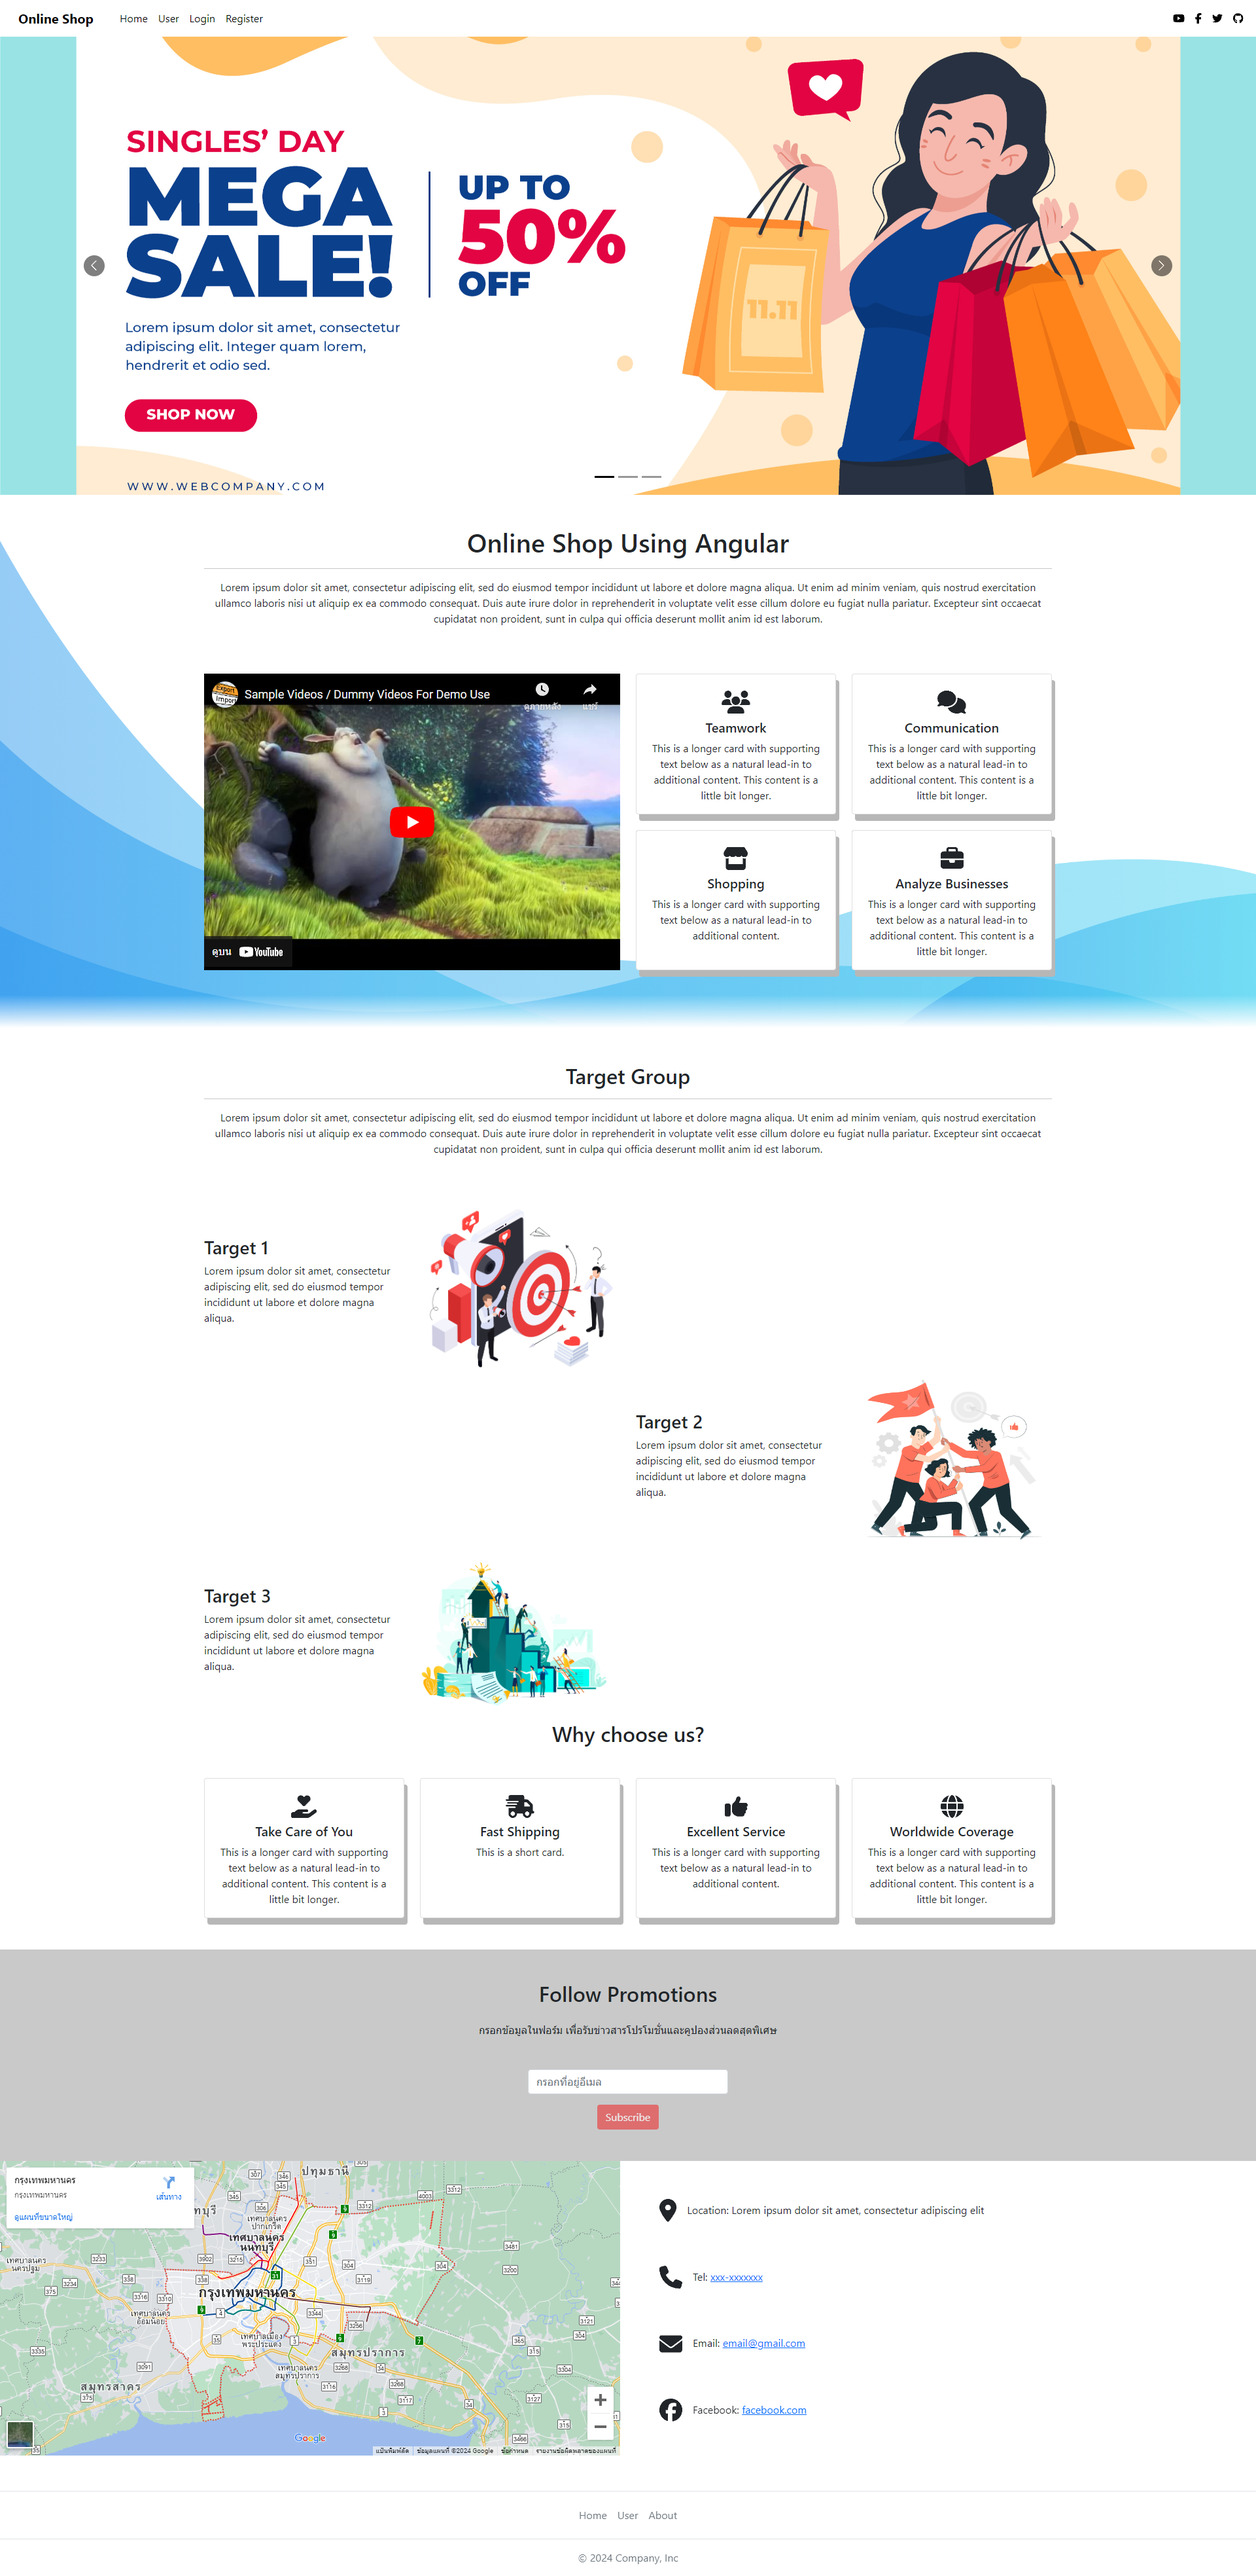
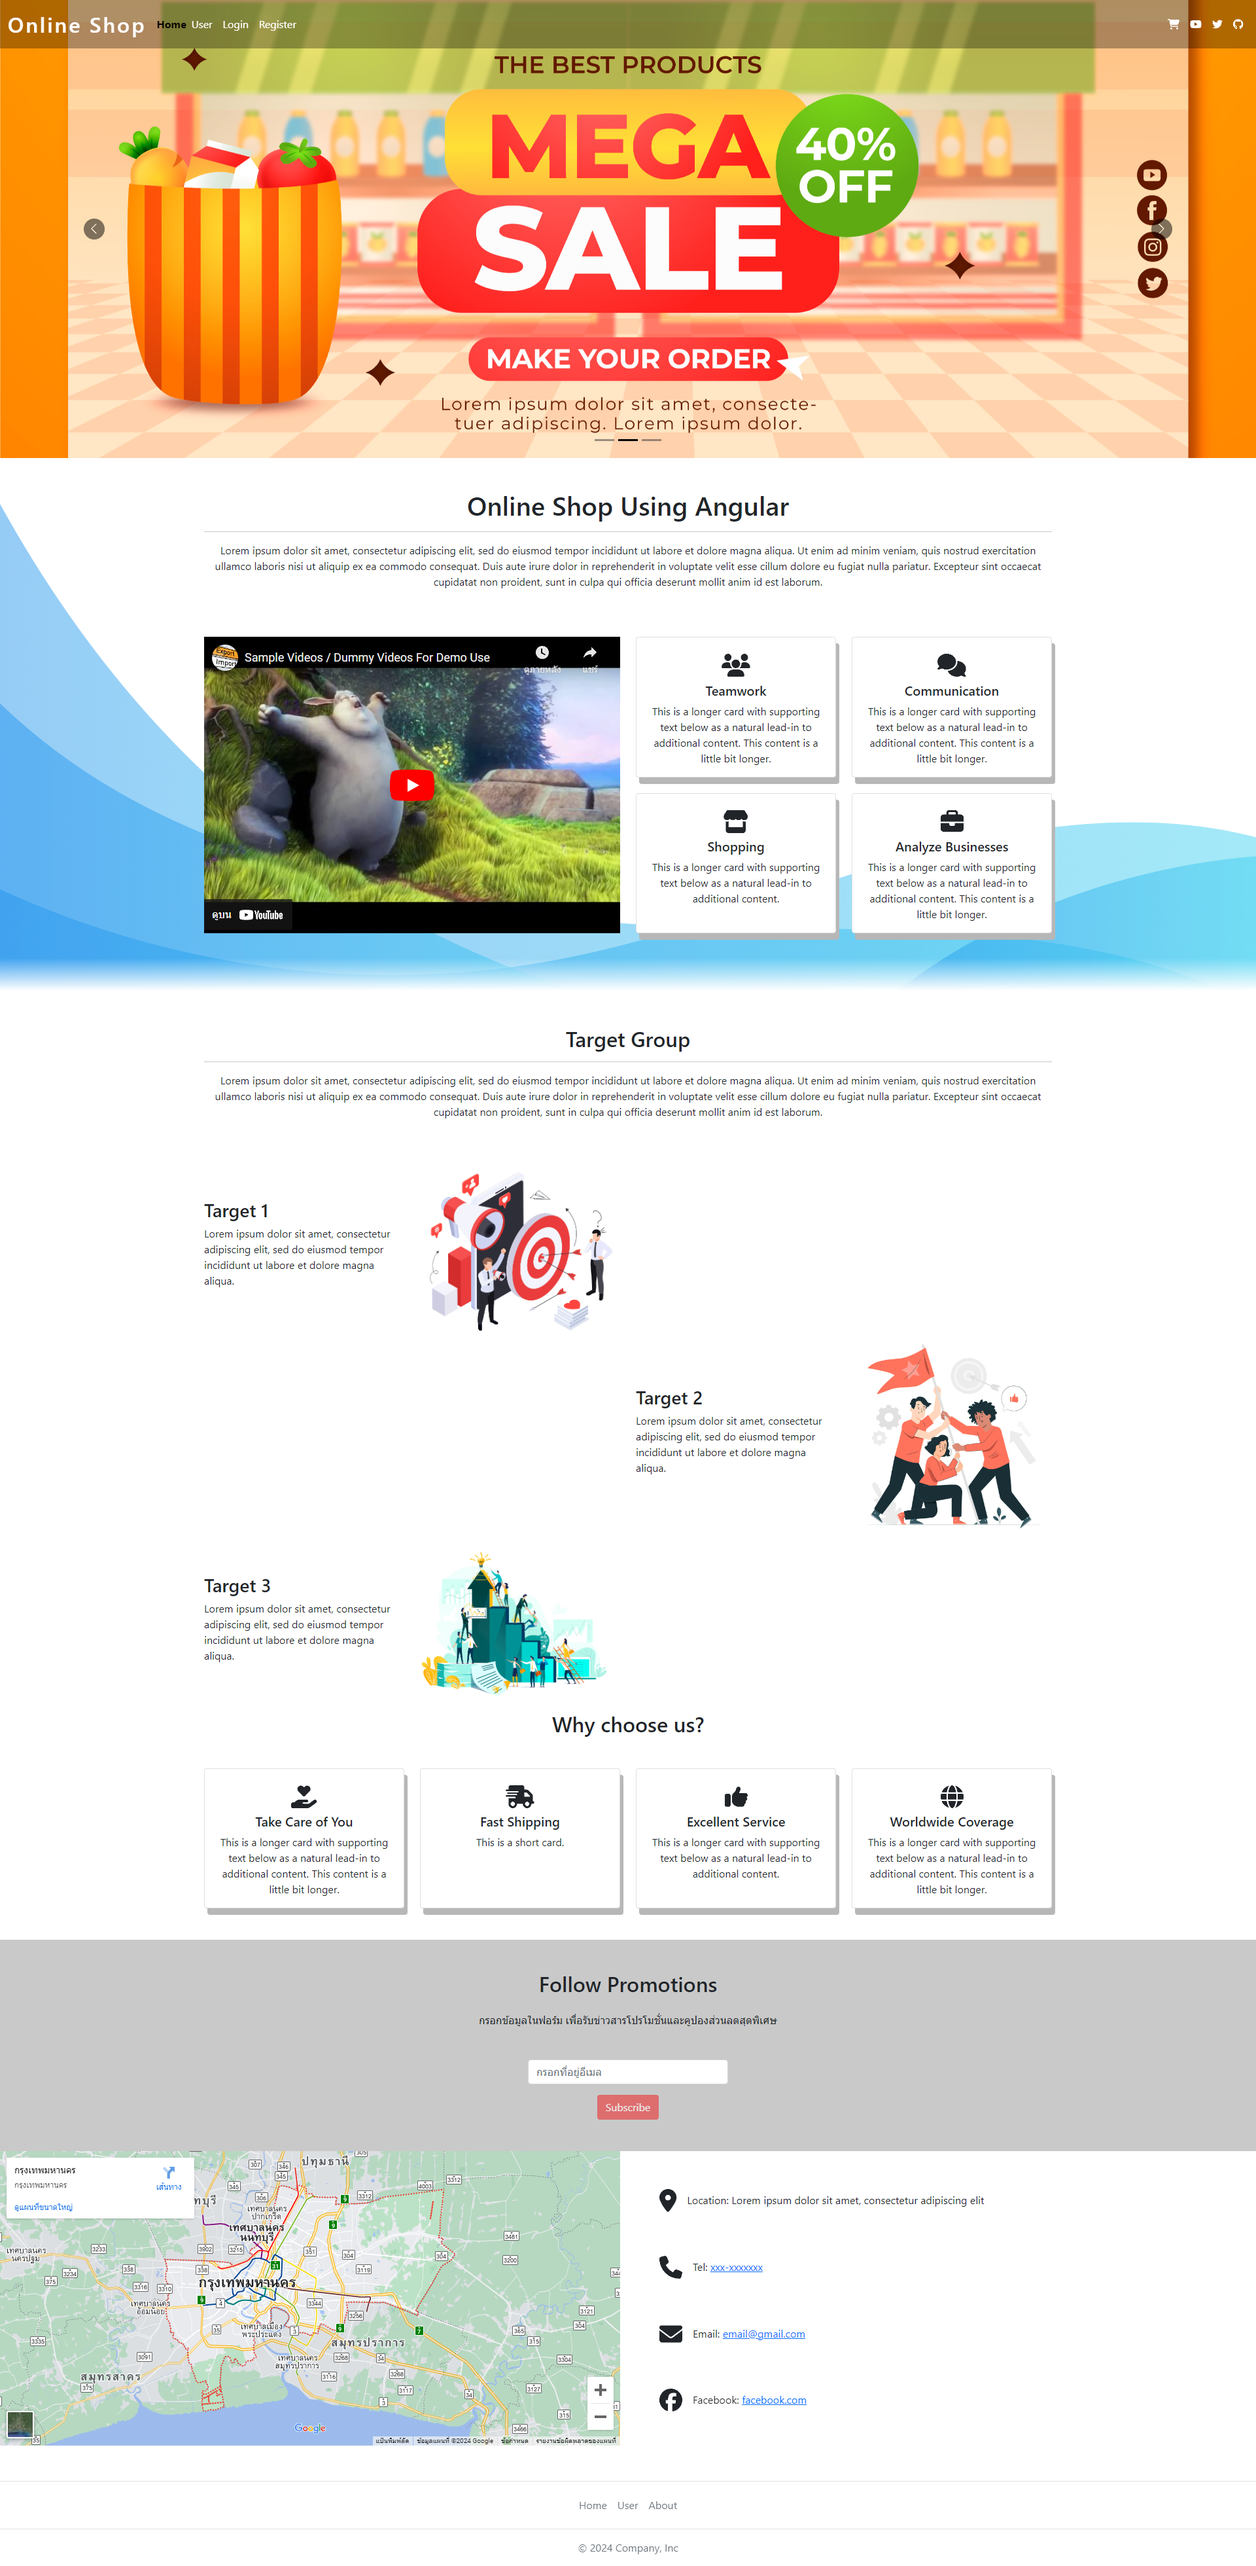
Change header and add active menu

diff --git a/src/app/app.component.html b/src/app/app.component.html
@@ -1,51 +1,45 @@
 <header class="sticky-top">
-  <!-- Navbar -->
-  <nav class="navbar navbar-expand-lg navbar-dark d-none d-lg-block" style="z-index: 2000;">
+  <nav class="navbar navbar-expand-lg fixed-top navbar-scroll">
     <div class="container-fluid">
-      <!-- Navbar brand -->
-      <a class="navbar-brand nav-link" target="_blank" href="https://mdbootstrap.com/docs/standard/">
-        <strong>Online Shop</strong>
-      </a>
-      <button class="navbar-toggler" type="button" data-mdb-toggle="collapse" data-mdb-target="#navbarExample01"
-        aria-controls="navbarExample01" aria-expanded="false" aria-label="Toggle navigation">
-        <i class="fas fa-bars"></i>
+      <a class="navbar-brand" href="#">Online Shop</a>
+      <button class="navbar-toggler" type="button" data-mdb-toggle="collapse"
+        data-mdb-target="#navbarSupportedContent" aria-controls="navbarSupportedContent" aria-expanded="false"
+        aria-label="Toggle navigation">
+        <fa-icon [icon]="faBars"></fa-icon>
       </button>
-      <div class="collapse navbar-collapse" id="navbarExample01">
-        <ul class="navbar-nav me-auto mb-2 mb-lg-0">
-          <li class="nav-item active">
-            <a class="nav-link" aria-current="page" routerLink="/">Home</a>
+      <div class="collapse navbar-collapse" id="navbarSupportedContent">
+        <ul class="navbar-nav me-auto">
+          <li class="nav-item">
+            <a class="nav-link" id="menu_id" aria-current="page" routerLink="/" routerLinkActive="active">Home</a>
           </li>
           <li class="nav-item">
-            <a class="nav-link" routerLink="/user">User</a>
+            <a class="nav-link" id="menu_id" routerLink="/user" routerLinkActive="active">User</a>
           </li>
           <li class="nav-item">
-            <a class="nav-link" href="#">Login</a>
+            <a class="nav-link" id="menu_id" href="#" routerLinkActive="active">Login</a>
           </li>
           <li class="nav-item">
-            <a class="nav-link" href="#">Register</a>
+            <a class="nav-link" id="menu_id" href="#" >Register</a>
           </li>
         </ul>
-
-        <ul class="navbar-nav list-inline">
-          <!-- Icons -->
-          <li class="">
-            <a class="nav-link" href="#" rel="nofollow"
-              target="_blank">
+        <ul class="navbar-nav d-flex flex-row">
+          <li class="nav-item me-3 me-lg-0">
+            <a class="nav-link" href="#">
+              <fa-icon [icon]="faShoppingCart"></fa-icon>
+            </a>
+          </li>
+          <li class="nav-item me-3 me-lg-0">
+            <a class="nav-link" href="#">
               <fa-icon [icon]="faYoutube"></fa-icon>
             </a>
           </li>
-          <li class="">
-            <a class="nav-link" href="#" rel="nofollow" target="_blank">
-              <fa-icon [icon]="faFacebookF"></fa-icon>
-            </a>
-          </li>
-          <li class="nav-item">
-            <a class="nav-link" href="#" rel="nofollow" target="_blank">
+          <li class="nav-item me-3 me-lg-0">
+            <a class="nav-link" href="#">
               <fa-icon [icon]="faTwitter"></fa-icon>
             </a>
           </li>
-          <li class="nav-item">
-            <a class="nav-link" href="https://github.com/Ace-Phatcharapol" rel="nofollow" target="_blank">
+          <li class="nav-item me-3 me-lg-0">
+            <a class="nav-link" href="#">
               <fa-icon [icon]="faGithub"></fa-icon>
             </a>
           </li>

diff --git a/src/styles.css b/src/styles.css
@@ -2,11 +2,91 @@
 html, body{
     overflow-x: hidden;
 }
-
-.navbar .nav-link {
-  color: #000000 !important;
+.navbar{
+    background-color: rgba(0, 0, 0, 0.315);
 }
+.navbar-nav {
+    align-items: center;
+}
+.active{
+    color: #000 !important;
+    font-weight: 700;
+    text-decoration: none;
+}
+/*NavBar Start*/
+@media (max-width: 991px) {
+    .navbar-scroll {
+        background-color: rgba(0, 0, 0, 0.315);
+    }
+       
+    .navbar-scroll .navbar-brand,
+    .navbar-scroll .nav-link,
+    .navbar-scroll .fa-bars {
+      color: #fff !important;
+      font-size: 16px;
+    }         
+  }
+  
+  .navbar-brand {
+    letter-spacing: 3px;
+    font-size: 2rem;
+    font-weight: 500;
+  }
+  .navbar-scroll .navbar-brand,
+  .navbar-scroll .nav-link,
+  .navbar-scroll .fa-bars {
+    color: #fff;
+  }
+  
+  .navbar-scroll {
+    box-shadow: none;
+  }
+  
+  .navbar-scrolled {
+    box-shadow: 0 10px 20px 0 rgba(0, 0, 0, 0.05);
+  }
+  
+  .navbar-scrolled .navbar-brand,
+  .navbar-scrolled .nav-link,
+  .navbar-scrolled .fa-bars {
+    color: #4f4f4f;
+  }
+  
+  .navbar-scrolled {
+    background-color: #fff;
+  }
+  
+  @media (max-width: 450px) {
+    #intro {
+      height: 950px !important;
+    }
+  }
+  
+  @media (min-width: 550px) and (max-width: 750px) {
+    #intro {
+      height: 1100px !important;
+    }
+  }
+  
+  @media (min-width: 800px) and (max-width: 990px) {
+    #intro {
+      height: 600px !important;
+    }
+  }
+  
+  .display-1 {
+    font-weight: 500 !important;
+    letter-spacing: 40px;
+  }
+  
+  @media (min-width: 1600px) {
+    .display-1 {
+      font-size: 10rem;
+    }
+  }
+/*NavBar End*/
 
+/*Responsive Start*/
 @media (max-width: 1399.98px) {
 
 }
@@ -64,3 +144,4 @@ html, body{
         padding: 2rem !important;
     }
 }
+/*Responsive End*/

diff --git a/src/app/app.component.ts b/src/app/app.component.ts
@@ -2,6 +2,7 @@ import {Component} from '@angular/core';
 import {RouterLink, RouterOutlet} from '@angular/router';
 import { FontAwesomeModule } from '@fortawesome/angular-fontawesome';
 import { faYoutube,faFacebookF,faTwitter,faGithub } from '@fortawesome/free-brands-svg-icons';
+import { faShoppingCart,faBars } from '@fortawesome/free-solid-svg-icons';
 
 @Component({
   selector: 'app-root',
@@ -22,4 +23,17 @@ export class AppComponent {
   faFacebookF = faFacebookF;
   faTwitter = faTwitter;
   faGithub = faGithub;
+  faShoppingCart = faShoppingCart;
+  faBars = faBars;
+  
+  ngAfterViewInit() {
+    this.setActiveClass('menu_id');
+  }
+
+  setActiveClass(menu_id: string) {
+    const el = document.getElementById(menu_id);
+    if (el) {
+      el.setAttribute('class', 'active');
+    }
+  }
 }

diff --git a/src/app/active-menu.directive.ts b/src/app/active-menu.directive.ts
@@ -1,0 +1,21 @@
+import { Directive, ElementRef, Renderer2, HostListener } from '@angular/core';
+
+@Directive({
+  selector: '[appActiveMenu]'
+})
+export class ActiveMenuDirective {
+
+  constructor(private el: ElementRef, private renderer: Renderer2) {}
+
+  @HostListener('click', ['$event'])
+  onClick(event: Event) {
+    const parent = this.el.nativeElement.parentElement.parentElement;
+    const children = parent.querySelectorAll('.nav-item .nav-link');
+    
+    children.forEach((child: any) => {
+      this.renderer.removeClass(child, 'active');
+    });
+
+    this.renderer.addClass(this.el.nativeElement, 'active');
+  }
+}

diff --git a/src/app/active-menu.directive.spec.ts b/src/app/active-menu.directive.spec.ts
@@ -1,0 +1,8 @@
+import { ActiveMenuDirective } from './active-menu.directive';
+
+describe('ActiveMenuDirective', () => {
+  it('should create an instance', () => {
+    const directive = new ActiveMenuDirective();
+    expect(directive).toBeTruthy();
+  });
+});
